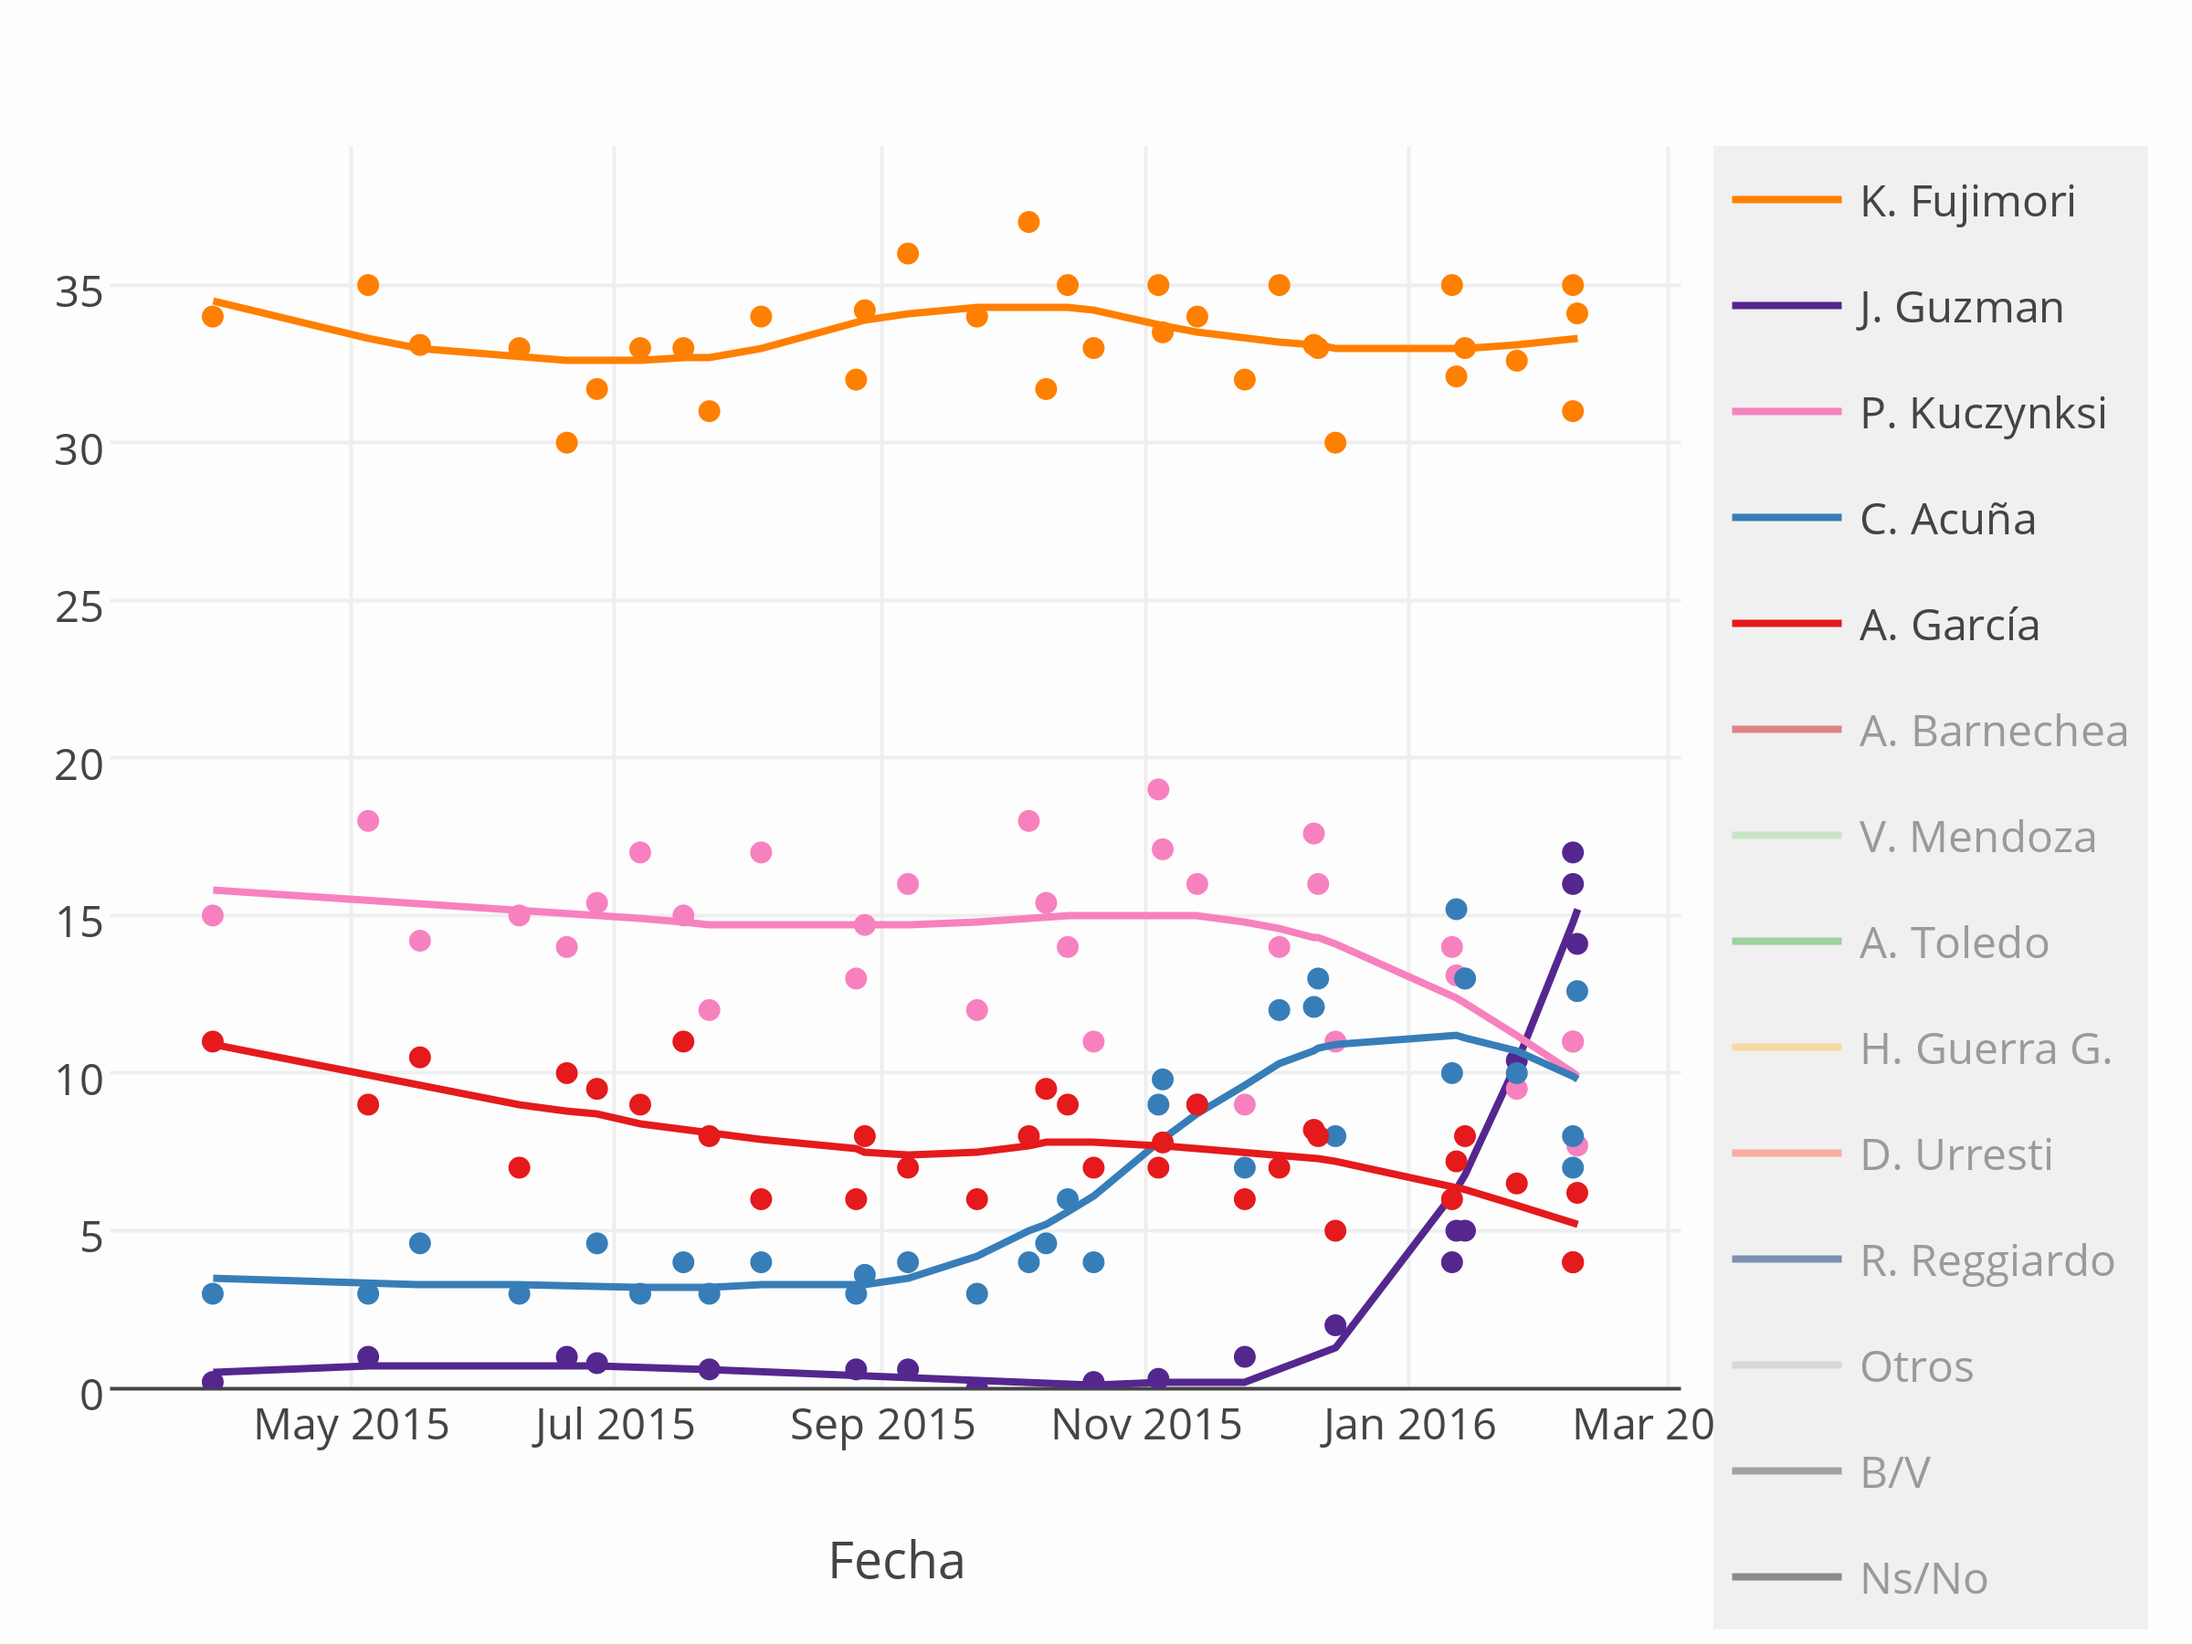
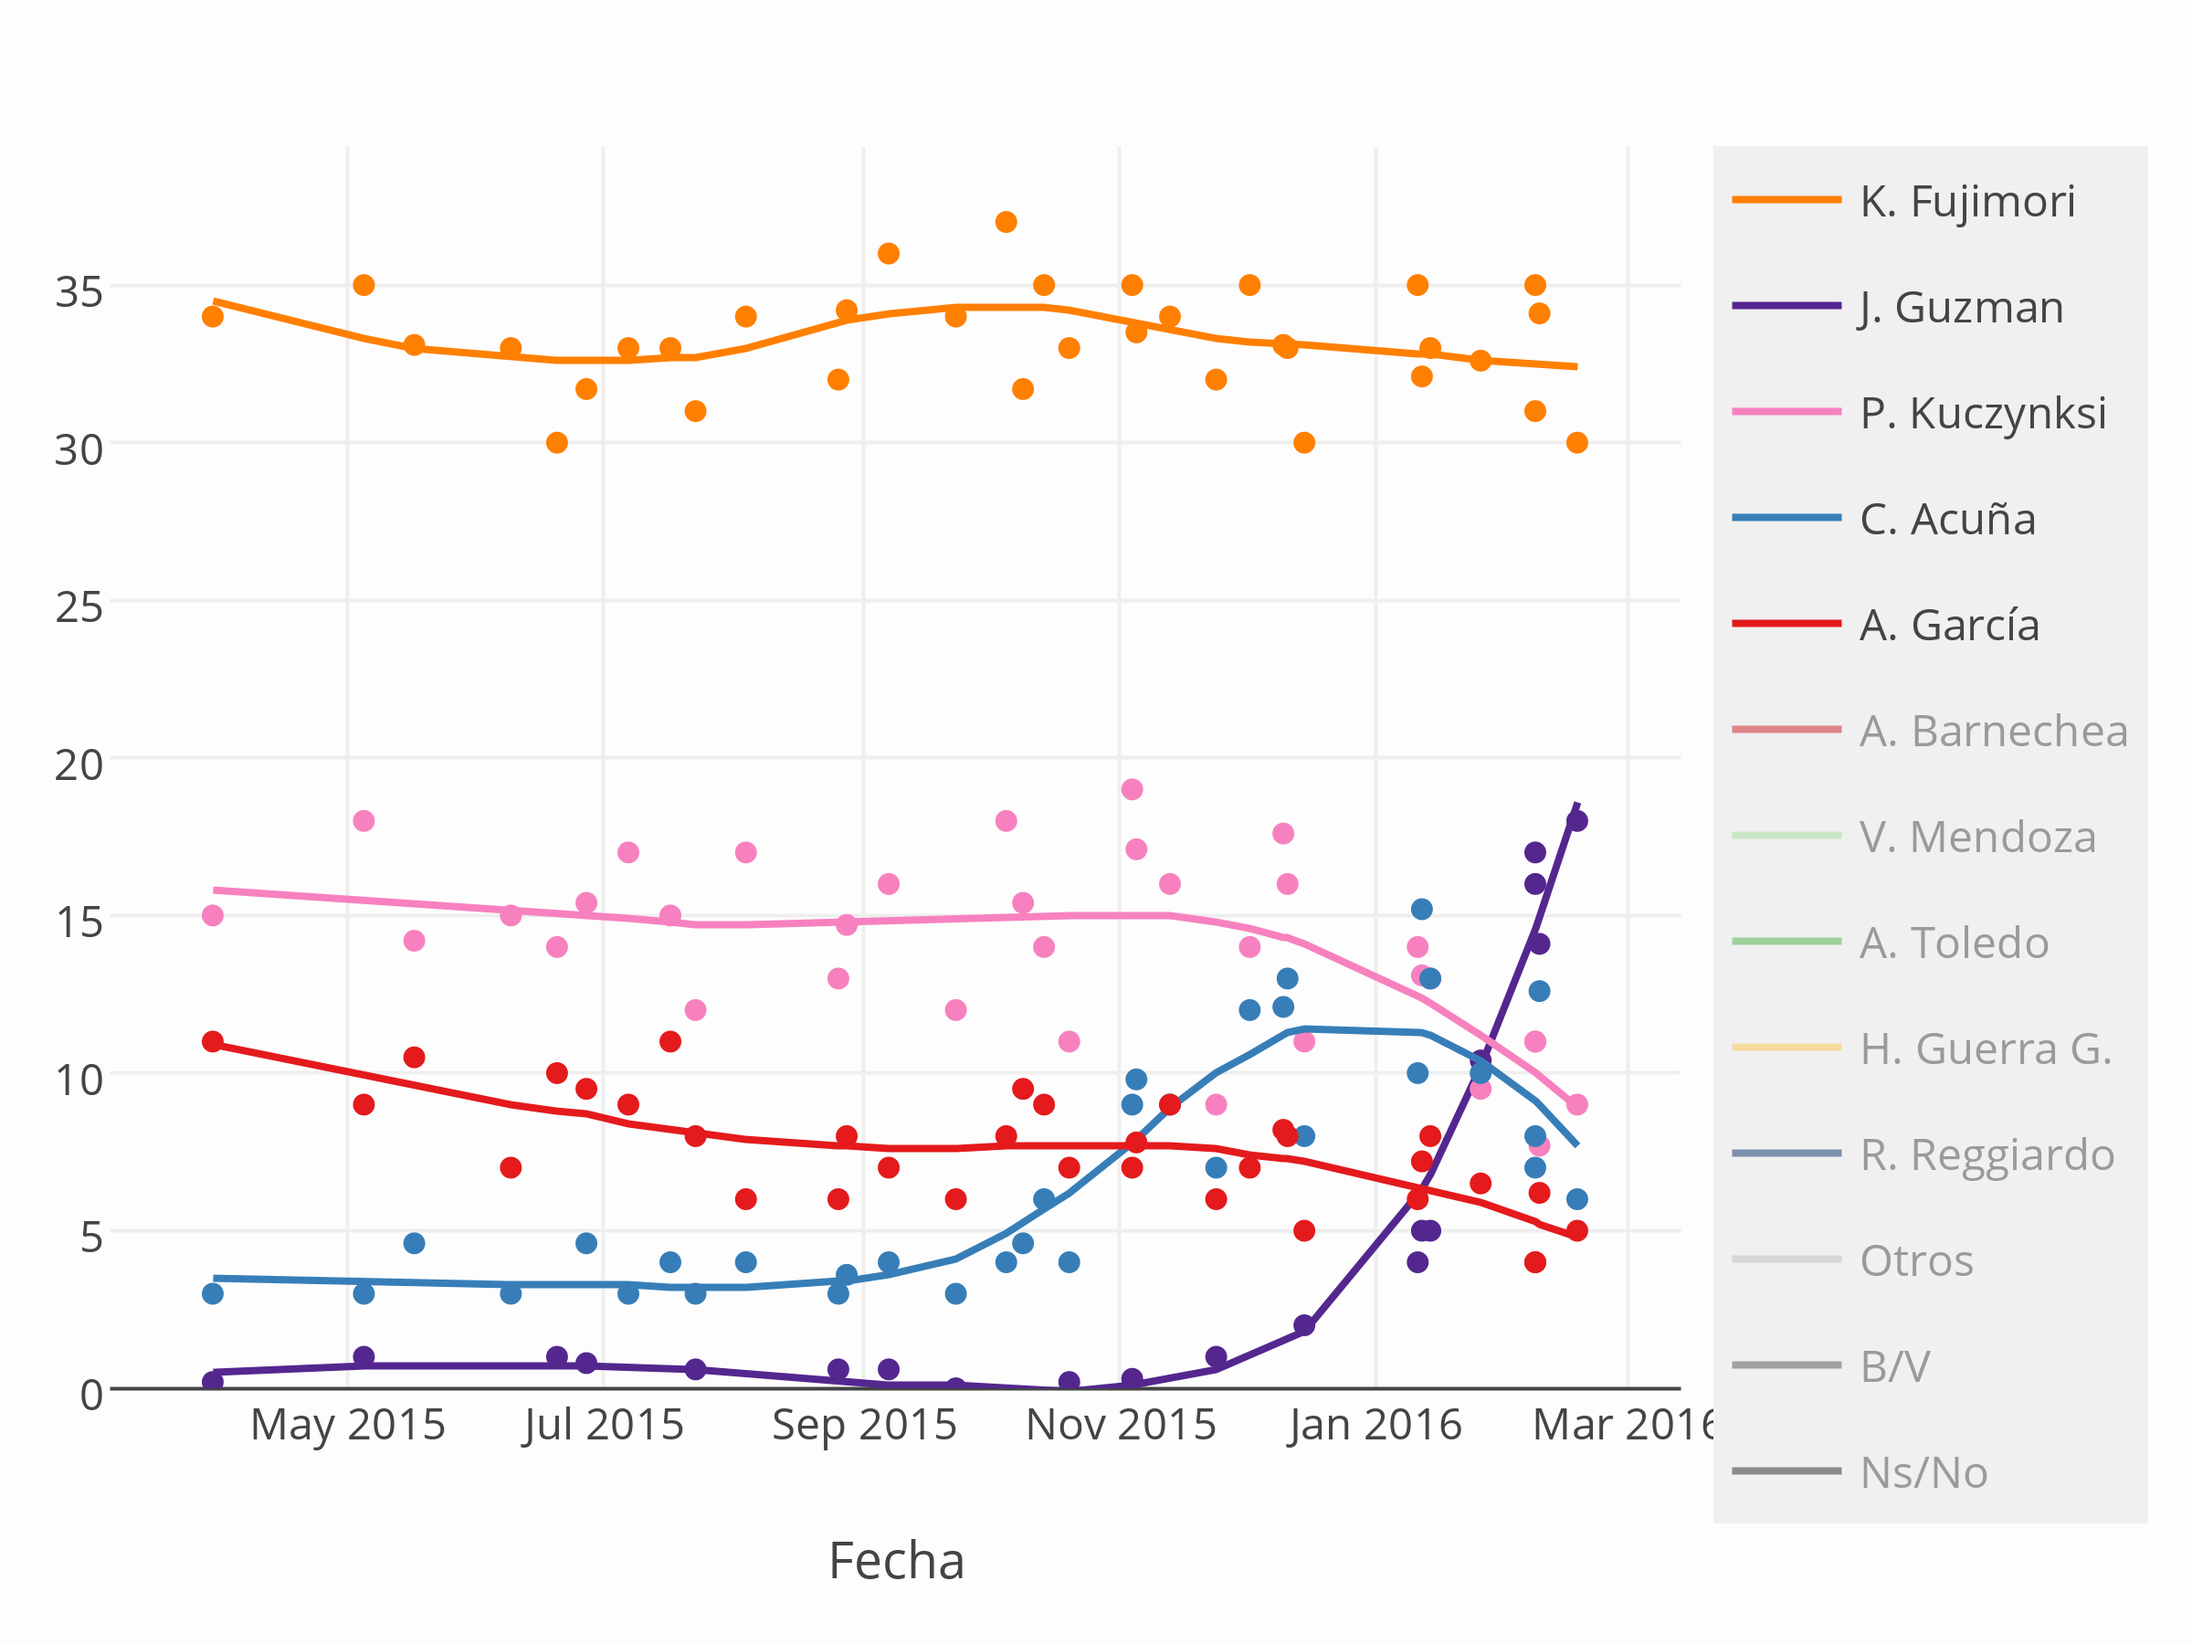
graficoActualizado

diff --git a/_posts/2016-02-21-Elecciones-presidenciales-2016.md b/_posts/2016-02-21-Elecciones-presidenciales-2016.md
@@ -24,7 +24,7 @@ breadcrumb: true
 
 
 
-El siguiente gráfico combina las encuestas de intención de voto. Actualizado el 13-02-2016.
+El siguiente gráfico combina las encuestas de intención de voto. Actualizado el 21-02-2016.
 
 
 
@@ -43,7 +43,7 @@ $('.myIframe').css('height', $(window).height()+'px');
 
 ## Resumen
 
-Estimado de »Resultados.pe« al cierre del trabajo de campo de la encuesta más reciente: 09-02-2016. 
+Estimado de »Resultados.pe« al cierre del trabajo de campo de la encuesta más reciente: 18-02-2016. 
 
 <iframe src="https://plot.ly/~AlejandroKantor/380.embed?link=False"  style="width: 100%" frameBorder="0" height="350" scrolling="no" seamless="seamless" 
 class="myIframe">
